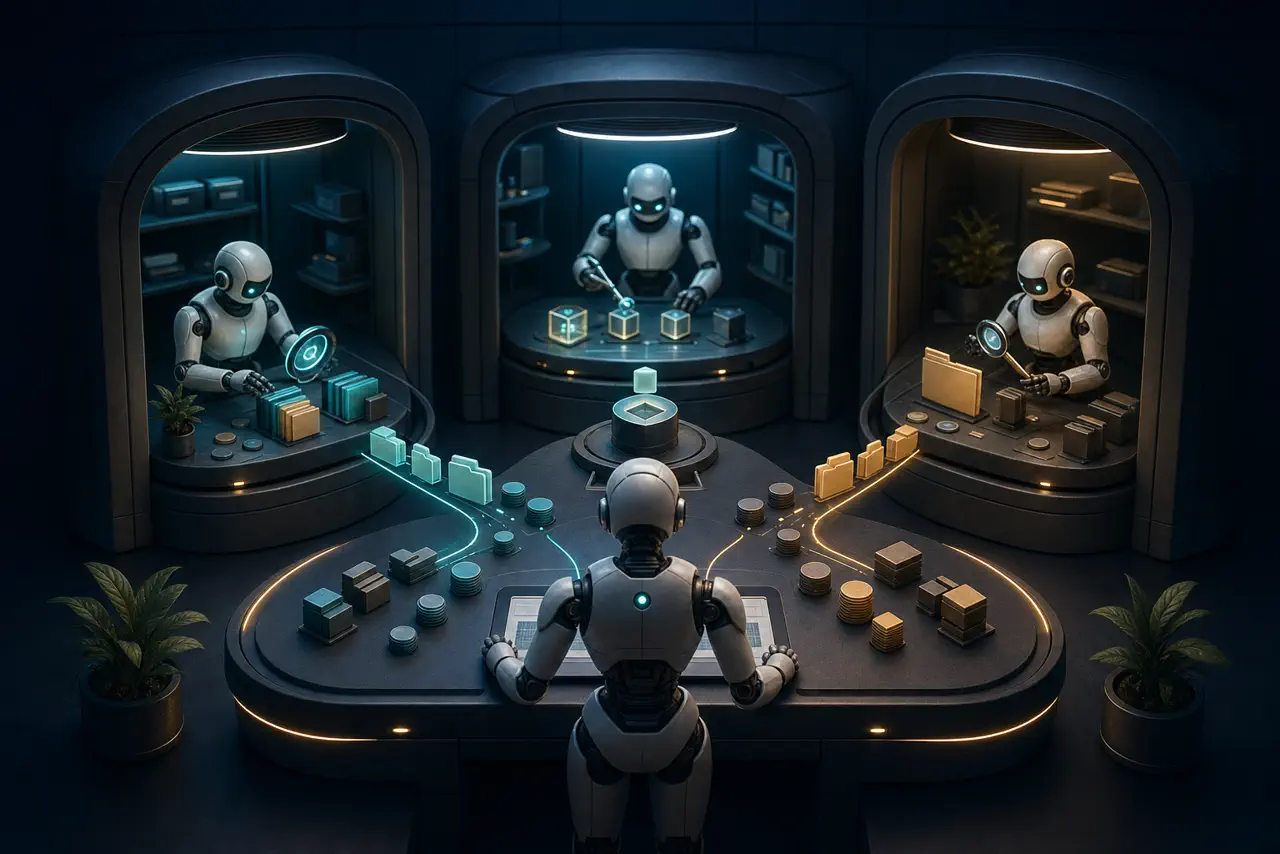
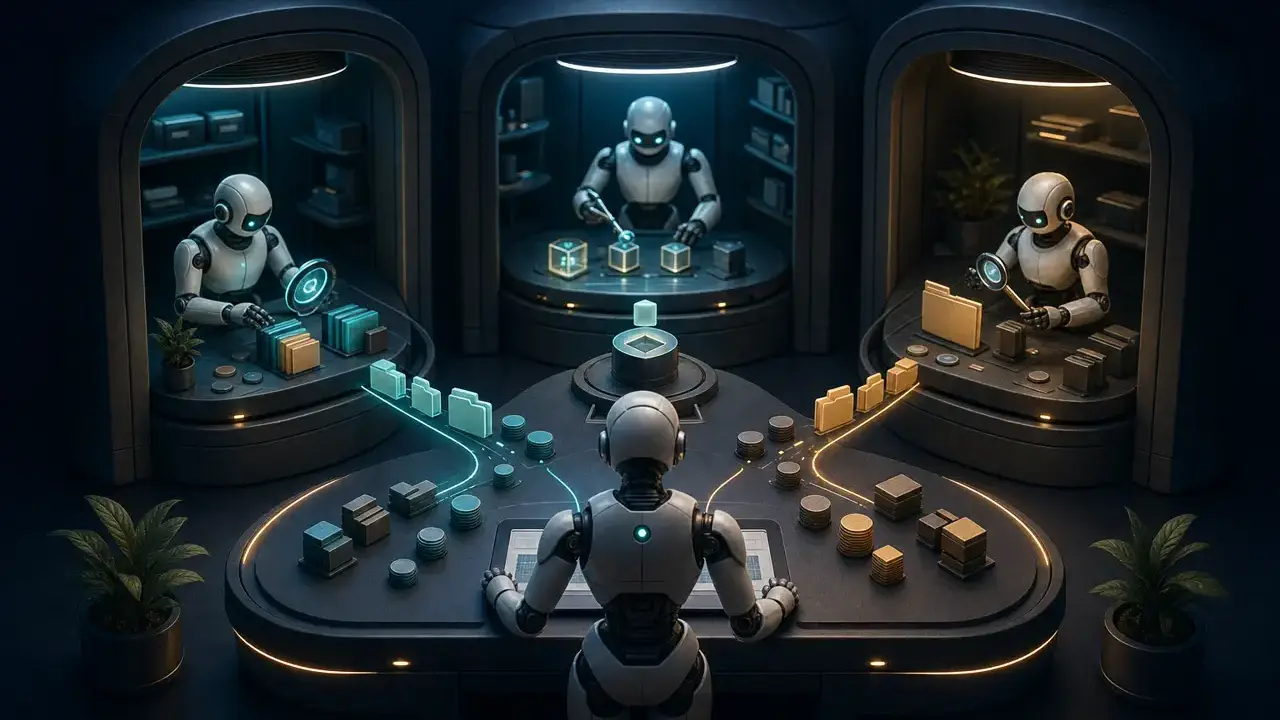
feat(articles): normalize Codex team review visuals

diff --git a/articles/codex-agent-teams/PROVENANCE.md b/articles/codex-agent-teams/PROVENANCE.md
@@ -1,0 +1,6 @@
+# Codex agent teams article media
+
+- Original raster editorial illustrations were generated for the first `codex-agent-teams` publication and added in commit `94c92b7760da1a6128977f59b4f6e7e809ee0f1a` on 2026-07-17.
+- The remediation keeps the original cover, decomposition, and handoff concepts; it does not synthesize vector, SVG, HTML, canvas, or fake interface artwork.
+- On 2026-07-21, the cover was center-cropped and normalized to 1280×720 WebP. The two selected body illustrations were center-cropped and normalized to 960×540 WebP. Metadata was stripped and WebP quality 82 was used.
+- `codex-agent-teams-integration.webp` remains an unused legacy source asset and is not referenced by the remediated article.
